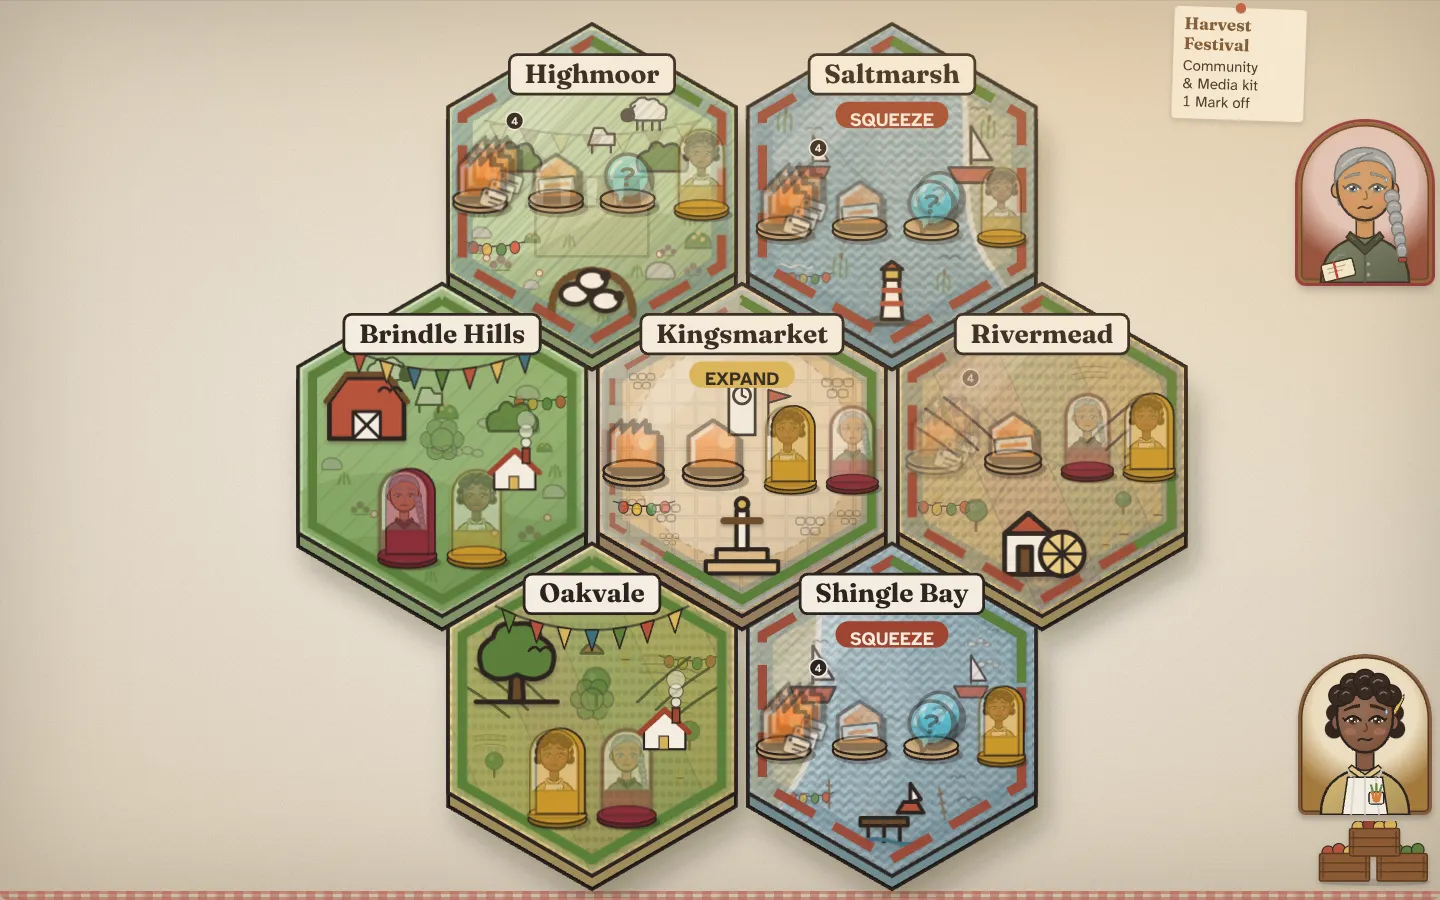
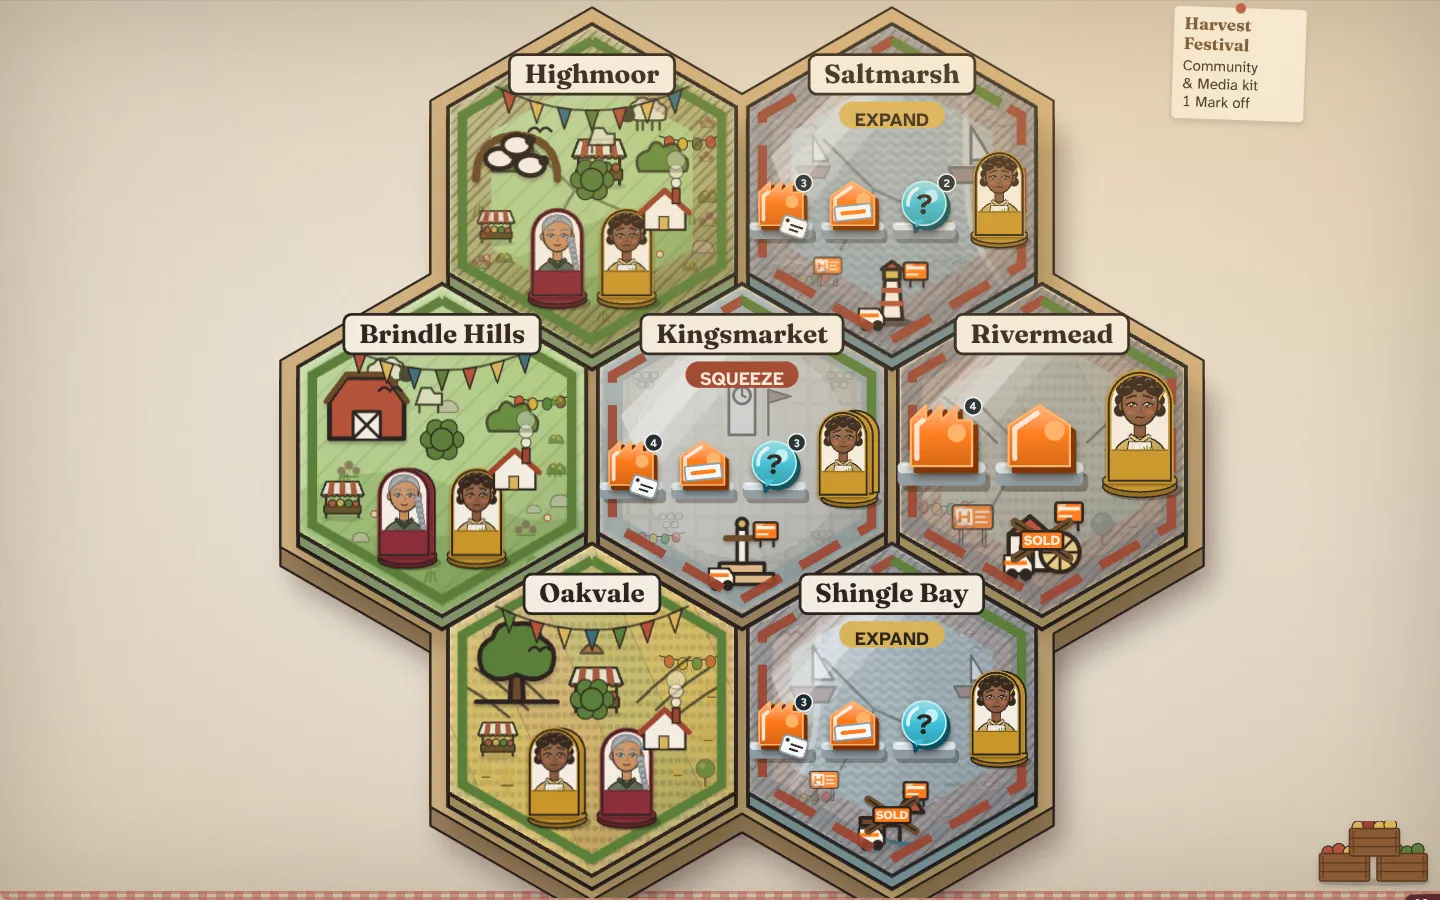
417: held ground a touch less grey (saturate 0.45, was 0.32; still well under 0.7x freed ground's saturation); Cathnivore's key art re-shot for item 417's board
Claude-Session: https://claude.ai/code/session_01SimvMRd9C6YdnyBv37Exsj

diff --git a/src/styles/table.css b/src/styles/table.css
@@ -5667,7 +5667,7 @@ html.no-animations .action-tray .actions[data-fan] > .action-item[data-fan] { tr
 }
 .region-hex[data-control='held'] .land-layer,
 .closeup-land[data-control='held'] .land-layer {
-  filter: saturate(0.32) brightness(0.96);
+  filter: saturate(0.45) brightness(0.97);
 }
 .region-hex[data-control='free'] .land-layer,
 .closeup-land[data-control='free'] .land-layer {
